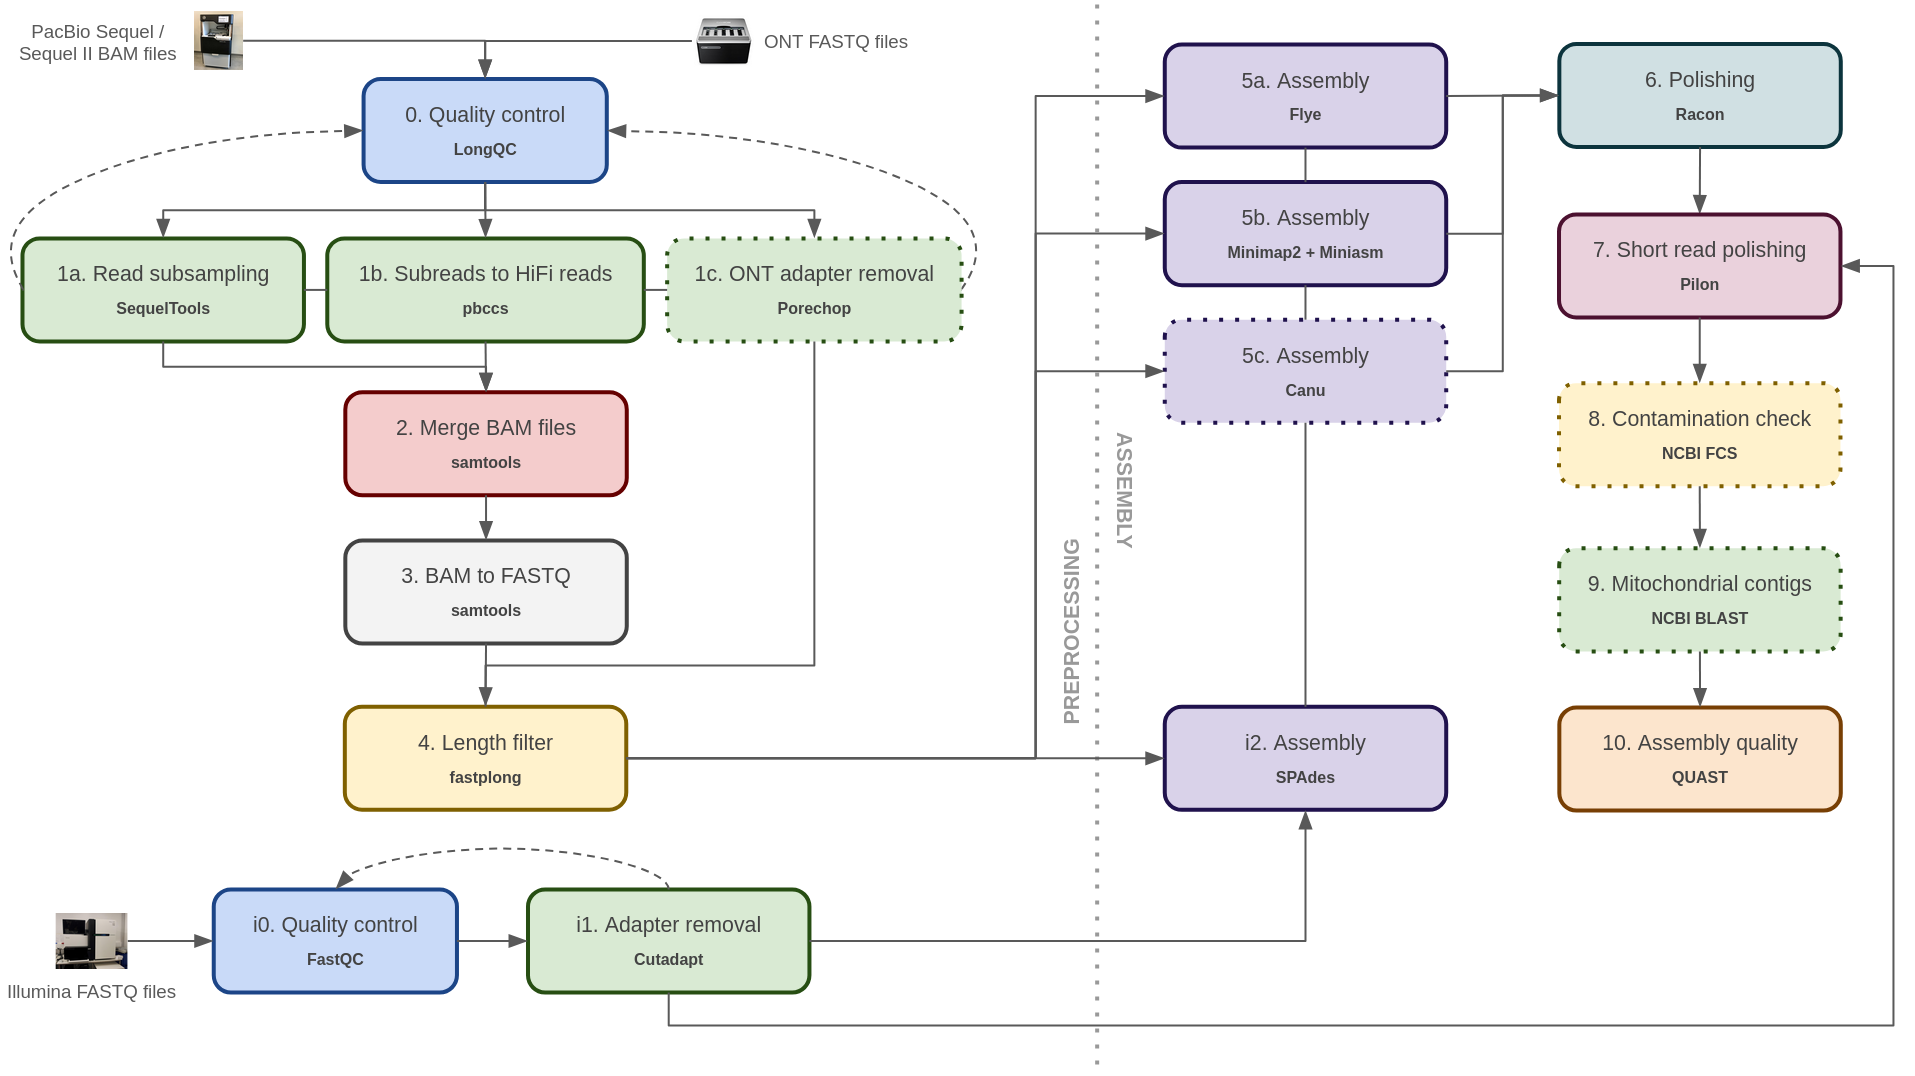
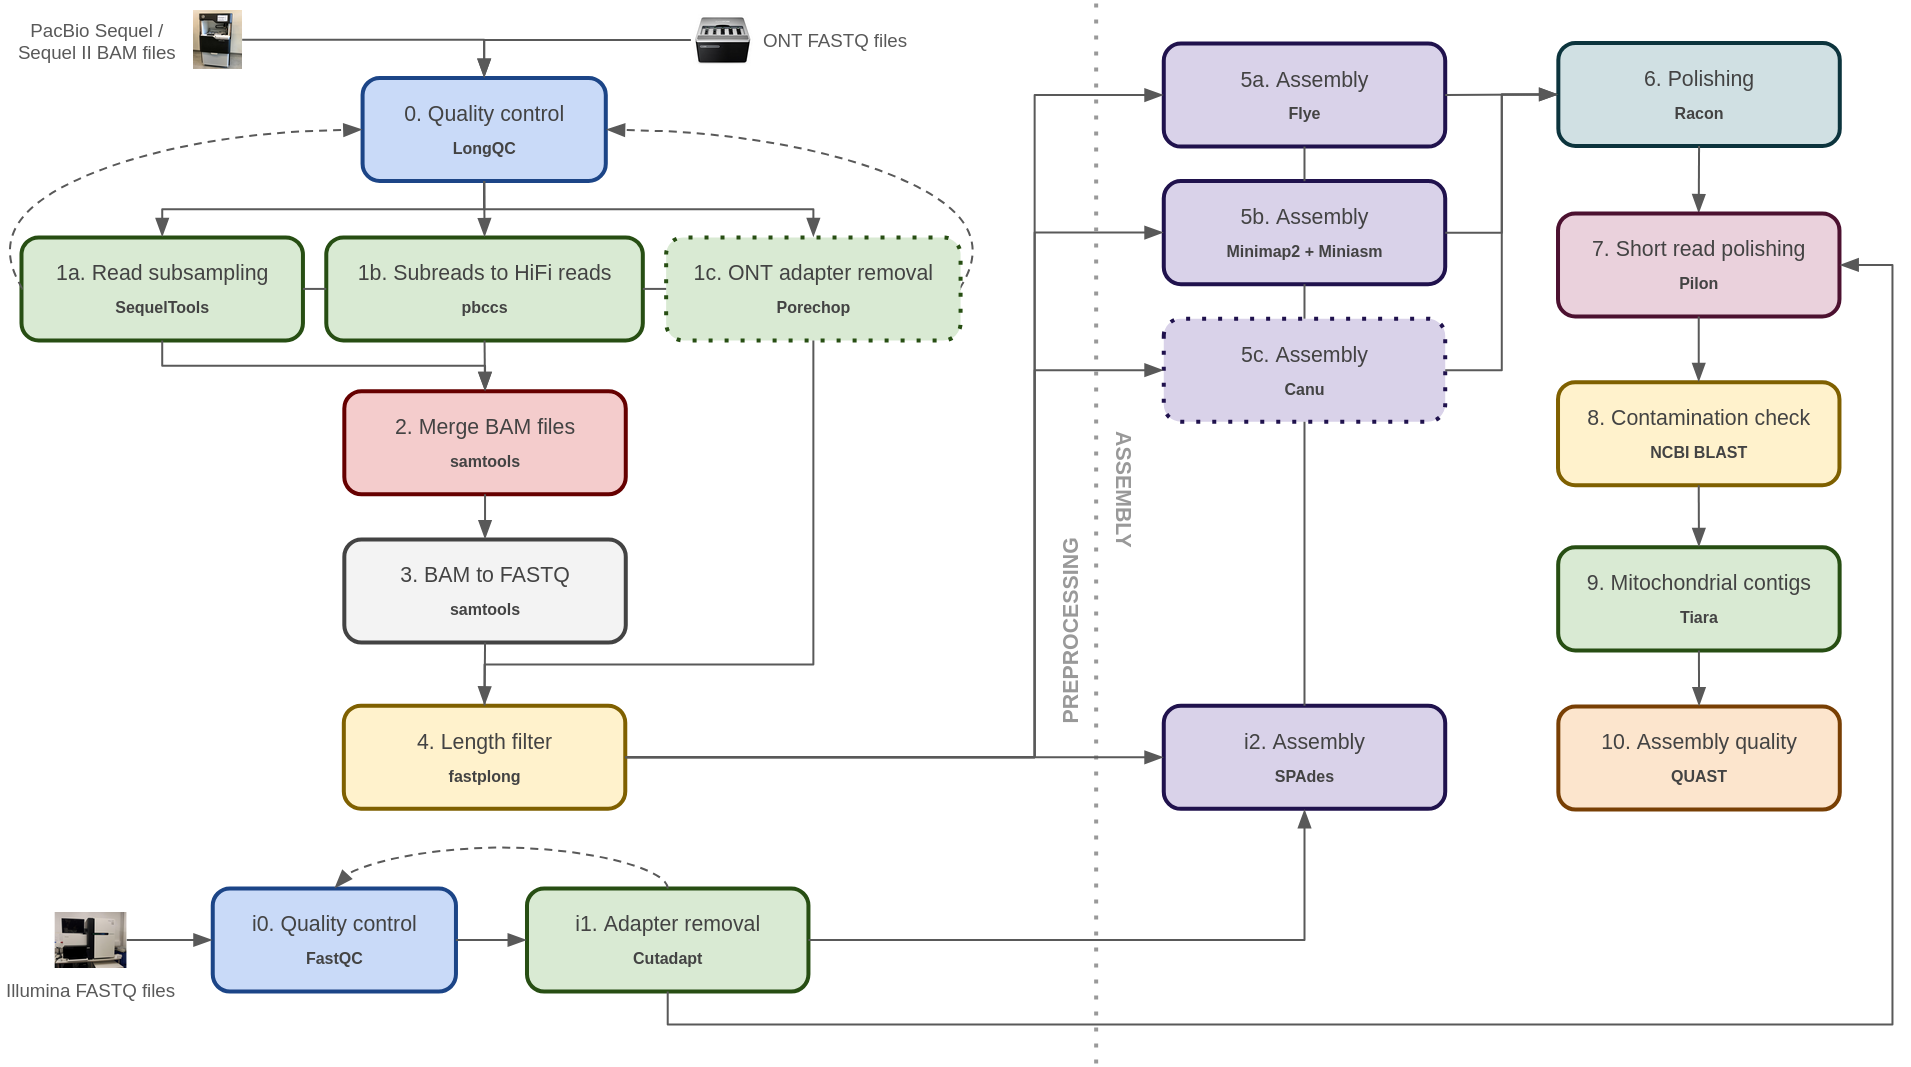
modules 8 (contam check) and 9 (mito contigs detection)

diff --git a/scripts/contamination-check.py b/scripts/contamination-check.py
@@ -1,0 +1,89 @@
+#!/usr/bin/python
+
+# Provided by Michael Thon
+# Slightly modified by Sergio Alías-Segura to specify outdir (changes marked with #SAS)
+
+from Bio.Blast.NCBIWWW import qblast
+from Bio.Blast import NCBIXML
+from Bio import SeqIO
+from sys import argv
+import pdb
+import os.path
+import argparse
+import time
+import csv
+
+def parse_cli():
+    parser = argparse.ArgumentParser(description="Run a remote blast on NCBI server to check for contamination")
+    parser.add_argument('-query',type=str, dest='query', help='query sequences in fasta format')
+    parser.add_argument('-taxon', type=str, dest='taxon', help='taxonomic group to filter')
+    parser.add_argument('-out', type=str, dest='outdir', help='output directory') #SAS
+    args = parser.parse_args()
+    return args
+
+options = parse_cli()
+prev_seqs = []
+
+outfile_path = os.path.join(options.outdir, os.path.basename(options.query) + '.contamination-report')  #SAS
+
+# check if the output files have sequences in them so we can skip them later
+if os.path.isfile(outfile_path): #SAS
+    notspecific_h = open(outfile_path, 'r') #SAS
+    for row in csv.reader(notspecific_h, delimiter='\t' ):
+        #pdb.set_trace()
+        print('found previously scanned sequence: ' + row[0])
+        prev_seqs.append(row[0])
+    notspecific_h.close()
+
+
+
+
+#################### do it
+hits_h = open(outfile_path, 'a+') #SAS
+
+seqs_to_blast = []
+
+for seq in SeqIO.parse(open(options.query), 'fasta'):
+    #pdb.set_trace()
+
+    if len(seq.seq) > 500:
+        subseq = seq[0: 500]
+        seqs_to_blast.append((seq.id, str(subseq.seq) ) )
+
+    else:
+        seqs_to_blast.append((seq.id, str(seq.seq)))
+
+#pdb.set_trace()
+for x in seqs_to_blast:
+    if x[0] in prev_seqs:
+        print(x[0] + ' already analyzed. skipping...')
+        continue
+    print('-----------------------------------------')
+
+    print('starting blast for ' + x[0])
+
+    #try:
+    result = qblast(program='blastn', sequence=x[1], database='nt', expect='1e-15', hitlist_size= 1,
+            entrez_query='all[filter] NOT ' + options.taxon + '[orgn]', megablast=True, service='megablast')
+    #pdb.set_trace()
+    #except:
+    #    print 'some problem with blast.  skipping.'
+     #   pdb.set_trace()
+    time.sleep(0.5) # this is so a ctrl-c will catch the main thread and not the ncbi blast subprocess
+     #   continue
+    record = NCBIXML.read(result)
+    #pdb.set_trace()
+
+    if len(record.descriptions) > 0:
+        #pdb.set_trace()
+
+        desc = record.descriptions[0]
+        hits_h.write(x[0] + '\t' + desc.title + '\t' + x[1] + '\n')
+        print('possible contamination: '+ x[0] + '\t' + desc.title + '\t' + x[1]+'\n')
+
+    else:
+        # no hits. must be species-specific
+        hits_h.write(x[0] + '\tno matches\n')
+
+hits_h.close()
+print('all done.')

diff --git a/README.md b/README.md
@@ -28,7 +28,7 @@ For programs that require a Conda environment, I highly recommend installing [Mi
 ./daemon.sh N
 ```
 
-Replace `N` with the module number you want to run (`0`, `1a`, `1b`, `1c`, `2`, `3`, `4`, `5a`, `5b`, `6`, `7`, `10`, `i1`, `i2`).
+Replace `N` with the module number you want to run (`0`, `1a`, `1b`, `1c`, `2`, `3`, `4`, `5a`, `5b`, `6`, `7`, `8`, `9`, `10`, `i0`, `i1`, `i2`).
 
 For modules **0** (LongQC) and **i0** (FastQC), you can use the optional `-r` flag:
 
@@ -36,7 +36,7 @@ For modules **0** (LongQC) and **i0** (FastQC), you can use the optional `-r` fl
 ./daemon.sh 0 -r
 ./daemon.sh i0 -r
 ```
-The `-r` flag indicates that QC should be repeated after running module 1a/1b (long reads) or i1 (short reads), to check the quality of processed reads. For other modules, the `-r` flag is ignored.
+The `-r` flag indicates that QC should be repeated after running module 1a/1b/1c (long reads) or i1 (short reads), to check the quality of processed reads. For other modules, the `-r` flag is ignored.
 
 ## Workflow Modules
 
@@ -52,6 +52,8 @@ Each module is run separately through the `daemon.sh` controller. Modules are:
 - **5b**: Assembly with Minimap2 and Miniasm
 - **6**: Assembly Polishing with Racon
 - **7**: Assembly Polishing with short reads with Pilon
+- **8**: Contamination check with NCBI BLAST
+- **9**: Mitochondrial contigs detection
 - **10**: Assembly Quality with QUAST
 - **i0**: FastQC (Illumina)
 - **i1**: Cutadapt (Illumina)
@@ -77,6 +79,8 @@ For full details on parameters, see comments in `config.sh`. For a visual unders
 ./daemon.sh i1        # Adapter trimming [OPTIONAL]
 ./daemon.sh i0 -r     # Repeat QC on processed short reads
 ./daemon.sh 7         # Polish assembly with short reads
+./daemon.sh 8         # Check contamination
+./daemon.sh 9         # Detect mitochondrial contigs
 ./daemon.sh 10        # Assess assembly quality
 
 
@@ -91,6 +95,8 @@ For full details on parameters, see comments in `config.sh`. For a visual unders
 ./daemon.sh i2        # Assemble with SPAdes
 ./daemon.sh 6         # Polish assembly
 ./daemon.sh 7         # Polish assembly with short reads
+./daemon.sh 8         # Check contamination
+./daemon.sh 9         # Detect mitochondrial contigs
 ./daemon.sh 10        # Assess assembly quality
 
 
@@ -101,6 +107,8 @@ For full details on parameters, see comments in `config.sh`. For a visual unders
 ./daemon.sh 4         # Filter by length [OPTIONAL]
 ./daemon.sh 5a        # Assemble with Flye
 ./daemon.sh 6         # Polish assembly
+./daemon.sh 8         # Check contamination
+./daemon.sh 9         # Detect mitochondrial contigs
 ./daemon.sh 10        # Assess assembly quality
 ```
 
